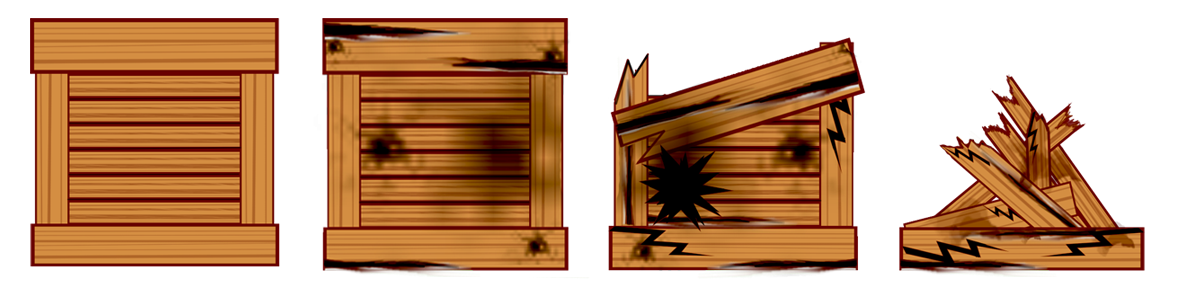
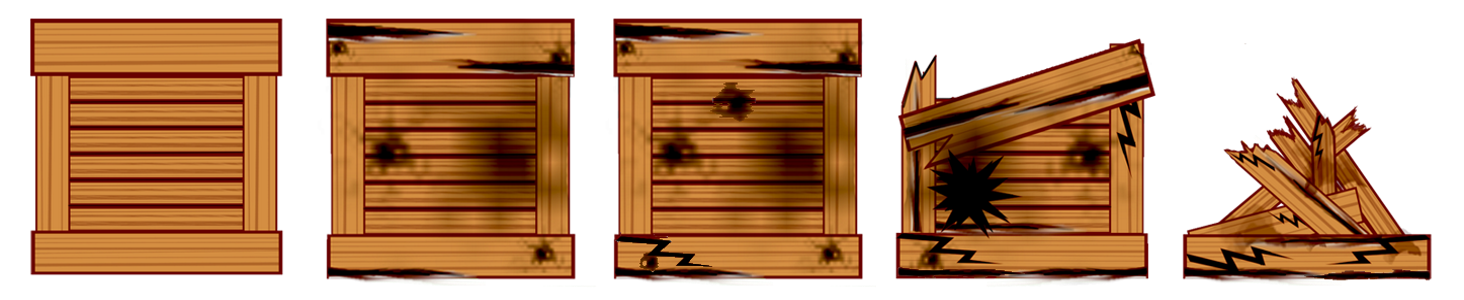
Refactoring of the fight logic and objects destructions
TODO: CODE GENERATION!

diff --git a/Assets/Code/GameObjects/Levels/LevelObject.cs b/Assets/Code/GameObjects/Levels/LevelObject.cs
@@ -1,13 +1,14 @@
-using System.Collections;
+using System;
 using System.Collections.Generic;
 using UnityEngine;
 
 public class LevelObject : MonoBehaviour, IDamageable
 {
-	public int Weight
+	[Serializable]
+	public struct VisualState
 	{
-		get { return this.weight; }
-		set { this.weight = value; }
+		public int hp;
+		public Sprite texture;
 	}
 
 	public int Strength
@@ -22,11 +23,9 @@ public class LevelObject : MonoBehaviour, IDamageable
 		set { this.isDestructible = value; }
 	}
 
-	public List<Sprite> VisualStates;
-	protected SpriteRenderer Renderer2D;
+	public VisualState[] VisualStates;
 
-	[SerializeField]
-	private int weight = 100;
+	protected SpriteRenderer Renderer2D;
 
 	[SerializeField]
 	private int strength = 100;
@@ -34,38 +33,23 @@ public class LevelObject : MonoBehaviour, IDamageable
 	[SerializeField]
 	private bool isDestructible = false;
 
-	private float hitImpuls = 250.0f;
-
-	// values for switching destroy states of the object
-	private int FULL_HP;
-	private int NORM_HP;
-	private int LOW_HP;
-	private int ZERO_HP;
-
 	protected virtual void Start()
 	{
 		Debug.Log("LevelObject Start");
 
-		this.FULL_HP = this.Strength;
-		this.NORM_HP = this.Strength - (this.Strength / 4);
-		this.LOW_HP = this.Strength - (this.Strength / 4) * 2;
-		this.ZERO_HP = this.Strength - (this.Strength / 4) * 3;
-
 		this.Renderer2D = GetComponent<SpriteRenderer>();
 
-		if (this.Renderer2D != null && this.VisualStates.Count > 0)
+		if (this.Renderer2D != null && this.VisualStates.Length > 0)
 		{
-			this.Renderer2D.sprite = this.VisualStates[0];
-		}
-		else
-		{
-			Debug.Log("!!!!!!!!!!!  this.Renderer2D != null " + this.Renderer2D != null);
-			Debug.Log("!!!!!!!!!!!  this.VisualStates.Count " + this.VisualStates.Count);
+			this.Renderer2D.sprite = this.VisualStates[0].texture;
 		}
 	}
 
-	public void TakeDamage(int damage)
+	public void TakeDamage(int damage, int impulse)
 	{
+		Debug.Log("LevelObject TakeDamage damage =  " + damage);
+		Debug.Log("LevelObject TakeDamage impulse =  " + impulse);
+
 		if (this.IsDestructible)
 		{
 			this.Strength -= damage;
@@ -74,29 +58,24 @@ public class LevelObject : MonoBehaviour, IDamageable
 		}
 		else
 		{
-			this.TakeImpuls(this.hitImpuls * damage);
+			this.TakeImpuls(impulse * damage);
 		}
 	}
 
 	protected virtual void FixedUpdate()
 	{
-		if (this.VisualStates.Count <= 0 || this.Strength <= 0)
-		{
-			return;
-		}
-
 		this.SwitchVisualState();
 	}
 
-	private void TakeImpuls(float value)
+	private void TakeImpuls(float impulse)
 	{
 		var rigidBody = GetComponent<Rigidbody2D>();
 
 		if (rigidBody != null)
 		{
-			rigidBody.AddForce(new Vector2(value, hitImpuls * 30.0f));
+			rigidBody.AddForce(new Vector2(impulse, impulse / 2.0f));
 
-			Debug.Log("LevelObject TakeImpuls done ");
+			Debug.Log("LevelObject TakeImpuls done " + impulse);
 		}
 	}
 
@@ -106,29 +85,25 @@ public class LevelObject : MonoBehaviour, IDamageable
 		{
 			this.Strength = 0;
 
-			Debug.Log("LevelObject is destroyed!");
+			var collider = GetComponent<BoxCollider2D>();
 
-			Destroy(GetComponent<BoxCollider2D>().gameObject);
+			if (collider != null)
+			{
+				Destroy(collider);
+				// Destroy(collider.gameObject);
+				Debug.Log("LevelObject is destroyed!");
+			}
+
+			return;
 		}
-		else if (this.Strength >= this.FULL_HP)
+
+		foreach (var state in this.VisualStates)
 		{
-			this.Renderer2D.sprite = this.VisualStates[0];
-		}
-		else if (this.Strength < this.FULL_HP && this.Strength >= this.NORM_HP)
-		{
-			this.Renderer2D.sprite = this.VisualStates[0];
-		}
-		else if (this.Strength < this.NORM_HP && this.Strength >= this.LOW_HP)
-		{
-			this.Renderer2D.sprite = this.VisualStates[1];
-		}
-		else if (this.Strength < this.LOW_HP && this.Strength >= this.ZERO_HP)
-		{
-			this.Renderer2D.sprite = this.VisualStates[2];
-		}
-		else if (this.Strength < this.ZERO_HP)
-		{
-			this.Renderer2D.sprite = this.VisualStates[3];
+			if (this.Strength >= state.hp)
+			{
+				this.Renderer2D.sprite = state.texture;
+				return;
+			}
 		}
 	}
 }

diff --git a/Assets/Code/GameObjects/Characters/Character.cs b/Assets/Code/GameObjects/Characters/Character.cs
@@ -9,6 +9,8 @@ public interface ICharacter
     int Armor { get; set; }
     int PunchDamage { get; set; }
 	int KickDamage { get; set; }
+	int PunchImpulse { get; }
+	int KickImpulse { get; }
 
 	void TakeArmor(int armor);
     int MakeDamage(FightMode fightMode);
@@ -31,6 +33,12 @@ public abstract class Character<TState> : MonoBehaviourWithState<TState>, IChara
 
 	[SerializeField]
 	private int kickDamage;
+
+	[SerializeField]
+	private int punchImpulse;
+
+	[SerializeField]
+	private int kickImpulse;
 
 	public int Health
     {
@@ -56,6 +64,16 @@ public abstract class Character<TState> : MonoBehaviourWithState<TState>, IChara
 		set { this.kickDamage = value; }
 	}
 
+	public int PunchImpulse
+	{
+		get { return this.punchImpulse; }
+	}
+
+	public int KickImpulse
+	{
+		get { return this.kickImpulse; }
+	}
+
 	public override void SetState(TState state)
     {
         this.Armor = state.Armor;
@@ -64,8 +82,15 @@ public abstract class Character<TState> : MonoBehaviourWithState<TState>, IChara
 		this.Health = state.Health;
     }
 
+	// Use this for initialization
+	protected virtual void Start()
+	{
+		this.punchImpulse = this.PunchDamage * 20;
+		this.kickImpulse = this.KickDamage * 20;
+	}
 
-    public void TakeDamage(int value)
+
+	public void TakeDamage(int value)
     {
         int blockedDamage = this.Armor - value;
 

diff --git a/Assets/Code/GameObjects/Characters/CharacterControllerScript.cs b/Assets/Code/GameObjects/Characters/CharacterControllerScript.cs
@@ -48,20 +48,23 @@ public class CharacterControllerScript : MonoBehaviour
 
 	private bool loadingStarted;
 
-	int[] activeLayersToInteraction = { 8, 9, 10 };
+	private int[] activeLayersToInteraction = { 8, 9, 10 };
 
 	public void AlertObservers(string message)
 	{
-		switch (this.fightMode)
+		if (message.Equals("AttackAnimationEnded"))
 		{
-			case FightMode.Punch:
-				Fight2D.Action(Punch.position, PunchRadius, this.activeLayersToInteraction, this.Character.PunchDamage, false);
-				break;
-			case FightMode.Kick:
-				Fight2D.Action(Kick.position, KickRadius, this.activeLayersToInteraction, this.Character.KickDamage, false);
-				break;
-			default:
-				break;
+			switch (this.fightMode)
+			{
+				case FightMode.Punch:
+					Fight2D.Action(Punch.position, PunchRadius, this.activeLayersToInteraction, false, this.Character.PunchDamage, this.Character.PunchImpulse);
+					break;
+				case FightMode.Kick:
+					Fight2D.Action(Kick.position, KickRadius, this.activeLayersToInteraction, false, this.Character.KickDamage, this.Character.KickImpulse);
+					break;
+				default:
+					break;
+			}
 		}
 
 		this.fightMode = FightMode.None;

diff --git a/Assets/Code/Helpers/Fight2D.cs b/Assets/Code/Helpers/Fight2D.cs
@@ -24,7 +24,7 @@ public class Fight2D : MonoBehaviour
 	}
 
 	// bool allTargets - set true for Tail Stroke
-	public static void Action(Vector2 point, float radius, int[] layers, int damage, bool allTargets)
+	public static void Action(Vector2 point, float radius, int[] layers, bool allTargets, int damage, int impulse)
 	{
 		int finalLayerMask = 8;
 
@@ -46,11 +46,11 @@ public class Fight2D : MonoBehaviour
 				{
 					if (hit.GetComponent<Enemy>() != null)
 					{
-						hit.GetComponent<Enemy>().TakeDamage(damage);
+						hit.GetComponent<Enemy>().TakeDamage(damage, impulse);
 					}
 					else if (hit.GetComponent<LevelObject>() != null)
 					{
-						hit.GetComponent<LevelObject>().TakeDamage(damage);
+						hit.GetComponent<LevelObject>().TakeDamage(damage, impulse);
 					}
 
 					Debug.Log(hit.name);
@@ -70,7 +70,7 @@ public class Fight2D : MonoBehaviour
 
 				if (obj.GetComponent<IDamageable>() != null)
 				{
-					obj.GetComponent<IDamageable>().TakeDamage(damage);
+					obj.GetComponent<IDamageable>().TakeDamage(damage, impulse);
 				}
 			}
 			else

diff --git a/Assets/Code/GameObjects/Enemies/Enemy.cs b/Assets/Code/GameObjects/Enemies/Enemy.cs
@@ -31,7 +31,7 @@ public class Enemy : MonoBehaviour, IDamageable
 	[SerializeField]
 	private int damage = 10;
 
-	public void TakeDamage(int damage)
+	public void TakeDamage(int damage, int impulse)
 	{
 		int blockedDamage = this.Armor - damage;
 

diff --git a/Assets/Code/GameObjects/IDamageable.cs b/Assets/Code/GameObjects/IDamageable.cs
@@ -4,5 +4,5 @@ using UnityEngine;
 
 public interface IDamageable
 {
-	void TakeDamage(int damage);
+	void TakeDamage(int damage, int impulse);
 }
